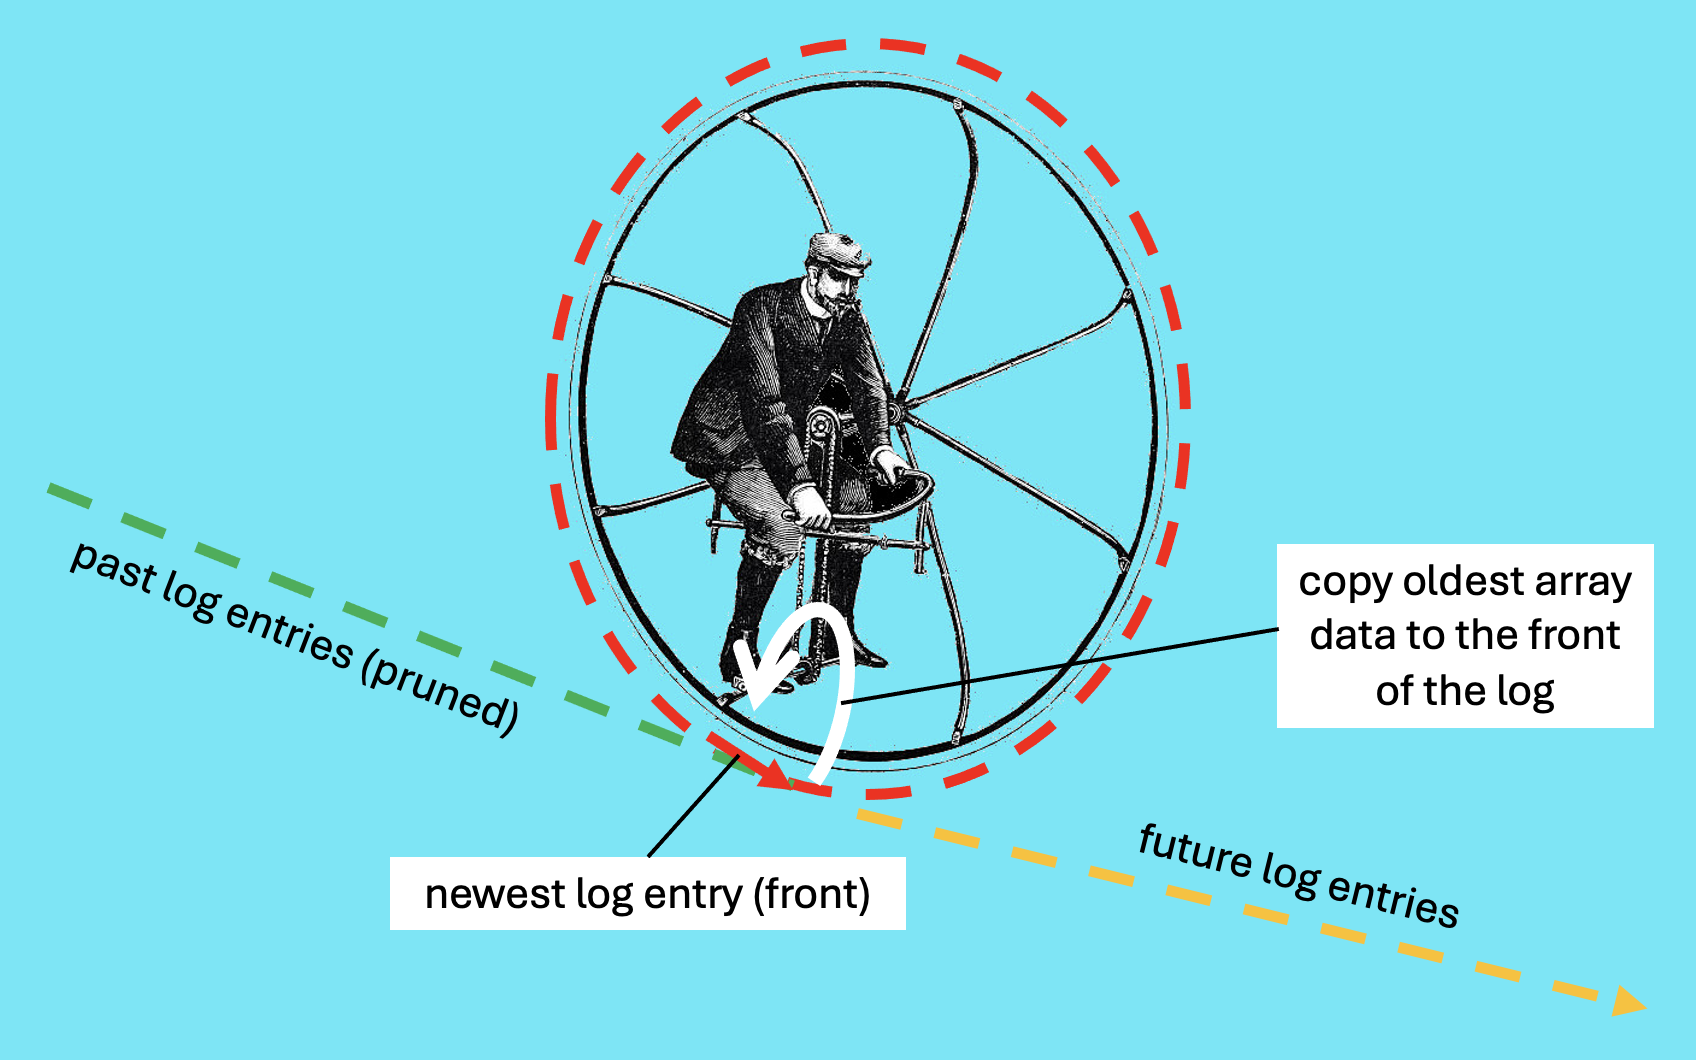
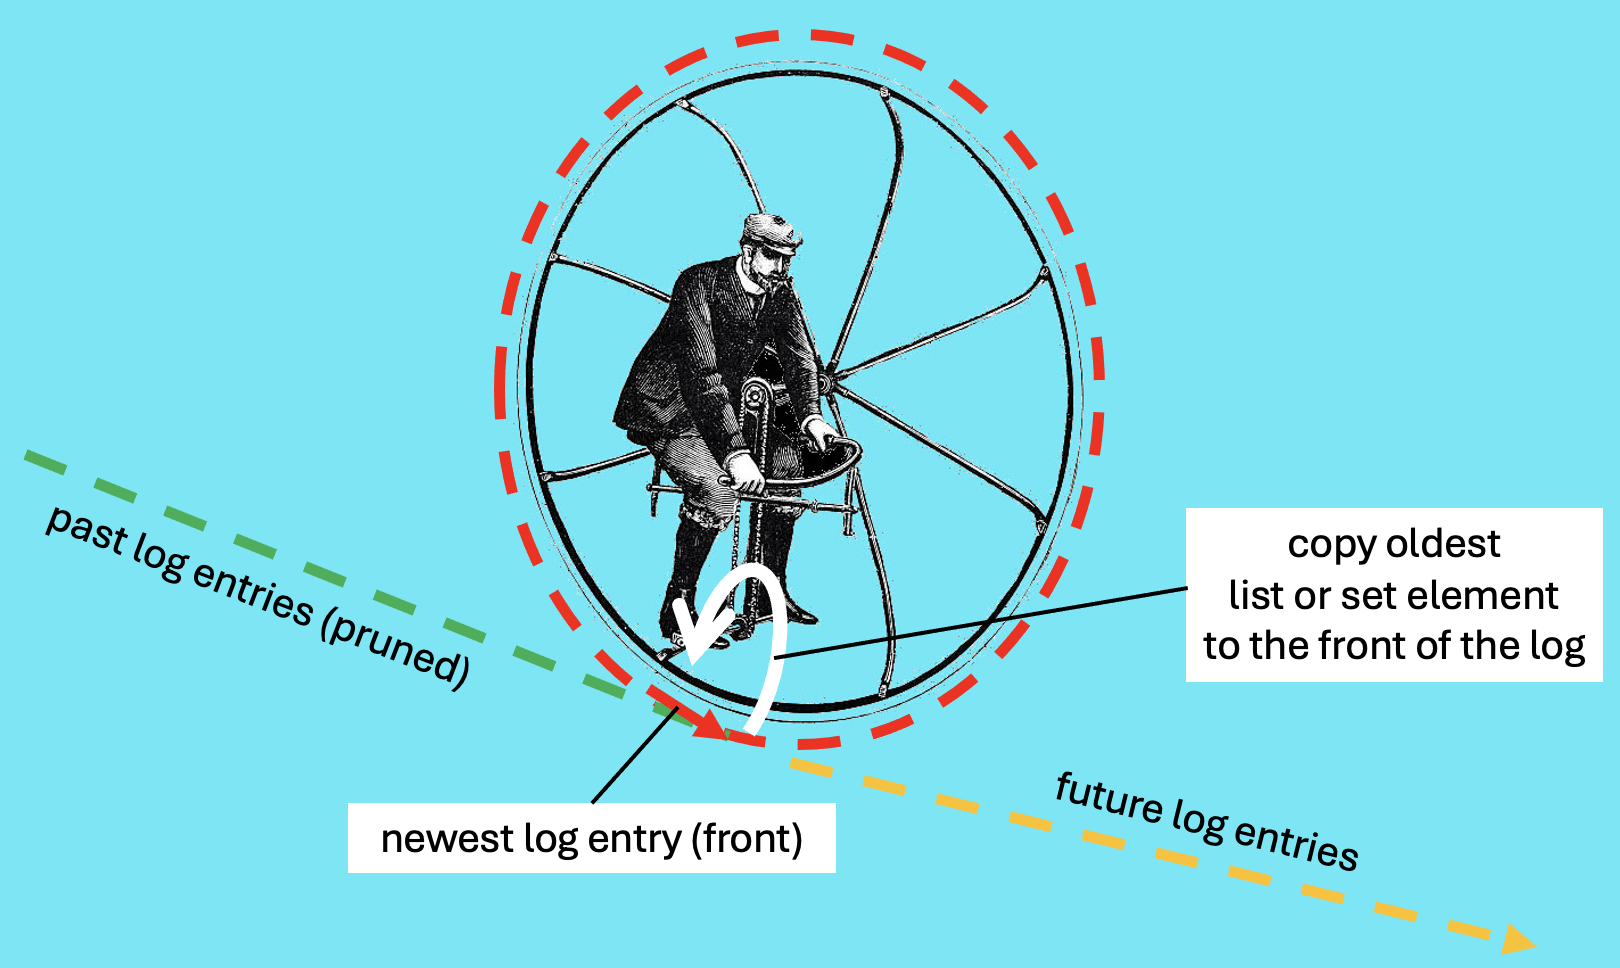
"array" was not accurate, replaced with LIST (and SET)

Changed region(s): [[0.0, 0.031, 1.0, 0.9917]]

diff --git a/README.md b/README.md
@@ -1,4 +1,4 @@
-# Replicated Roll-Over Arrays (ROAR)
+# Roll-Over Lists and Sets (RoloLIST and RoloSET)
 
 How can we publish a mutable data structure via an immutable
 storage stream such that the stream can always be pruned?
@@ -11,21 +11,25 @@ contains more recent data). But because the logs are immutable,
 storing information updates regarding higher-level objects will
 accumulate in an unbounded way.
 
-In this work we show how a specific higher-level data structure, an
-array, can be mapped to a unbounded append-only log yet we keep the
-relevant data in an optimally bounded section of the log. In other
-words, our encoding of the mutable array permits to always prune the
-log. The following pictures depicts our approach:
+In this work we show how specific higher-level data structures, a
+dynamic list and a dynamic set, can be mapped to an unbounded
+append-only log yet we keep the relevant data in an optimally bounded
+section of the log. In other words, our encoding of the mutable list
+and set permits to always prune the log, meaning that we can ignore
+all log entries older that some cutoff point. The following picture
+explains our approach of how we handle the seemingly contradicting
+"immutability" vs "continuously evolving" properties:
 
 ![A log wrapping around a monowheel cycle.](img/monowheel.png)
 
-The current state of an array is stored in the red section of the log.
-Information about the modification of the array is added at the front
-of the log. In order to bound the red section (and declare some
-entries as obsolete, shown in green), it may be necessary to copy old
-data to the front. The trick is to store enough ordering information
-such that old array elements can be sitting at the front of the log,
-if necessary.
+The current state of a list is stored in the red section of the log.
+This includes information about the modification of the list, which is
+added at the front of the log. In order to bound the red section and
+declare _all entries older than the cutoff point_ (shown in green)
+as being obsolete, most of the time it will be necessary to copy old
+data to the front. The trick is to store enough "ordering information"
+with the data such that old list elements can be sitting at the front
+of the log, if necessary.
 
 ## History
 
@@ -34,38 +38,38 @@ of Sebastian Philipp at the University of Basel, 2022 with the
 title _"Memory-Bounded Replication of Mutable Data Structures over
 Immutable Append-Only Logs"_.
 
-Philipp's encoding for an array data structure is based on storing,
+Philipp's encoding for a list data structure is based on storing,
 per log entry, one to three basic operation types: "create", "link"
 and "head". In this way, insertion as well as deletion can be modeled
-as is shown in the example of Figure 3.4:
+as is shown in the example of Figure 3.4, extracted from his report:
 
 ![Copy of Fig 3.4 in Philipp's MSc thesis, 2022, page 20](img/philipp-fig3.4.png)
 
-
-Based on the same approach we extended Philipp's technique by adding
-an aggressive pruning strategy using "roll-overs". Unless the
-modification of the array is about adding a new element (in which case
-we have to grow the "red section"), all other actions involve pruning
-one log entry. In case that pruned entry contained still revelant
-data, we copy its content, as well as updated "rewiring of the links",
-to the front of the log. This must be done in a careful way. For
+Based on the same approach, we extend Philipp's technique by adding an
+aggressive pruning strategy using "roll-overs": Unless the
+modification of the list is about adding or replacing a element (in
+which case we may have to grow the "red section"), all other actions
+must lead to pruning at least one log entry. In case that the
+to-be-pruned entry contains still revelant data, we copy its content
+as well as "link rewirings" to the front of the log. This must be done
+in a careful way as it impacts the main action on the list: For
 example, deleting an element requires updating pointers in the
-adjacent elements with the catch that one of these elements may have
-now moved from the back to the front of the log (i.e., in this case
-the updating has to be updated before writing the relinking
-information to the log).
+adjacent elements, but now with the catch that one of these elements
+may was moved from the back to the front of the log. This means that
+we have to update the updating information before writing the rewiring
+details to the log.
 
-## Log Entry Encoding
+## Log Entry Encoding, Examples
 
 For the current implementation in Python we chose an internal
-double-linked list approach when storing the higher-level data
-structure in memory. For storing changes in the log, it suffices to
-store only one link type, the ```prev``` links, as the other direction
-(```next```) can be computed based on the in-memory data. Differently
-from Philipp, we chose to keep track of a tail pointer instead of
-head, assuming that it is more frequent that elements are appended to
-the array e.g., in list operations. Overall we also have three
-operations:
+double-linked list approach for storing the higher-level list and set data
+structures in memory. Not all of this has to be documented in the log.
+It suffices to store only the ```prev``` links because the other
+direction (```next```) can be computed based on the in-memory
+data. Differently from Philipp, we chose to keep track of a tail
+pointer instead of head, assuming that it is more frequent that
+elements are appended to a list or set. Overall we also have three
+low-level operations to encode the high-level action:
 
 ```
 value "some data"      // corresponds to 'create'
@@ -75,37 +79,48 @@ tail (to)              // define the new tail element value, can be nil
 
 where ```at``` and ```to``` are pointers in form of sequence numbers,
 identifying what log entry is referenced. As with Philipp's encoding,
-the default field values are ```nil```.
+the default field values are ```nil``` when a new node is created with
+a ```value``` operation.
 
-A one-element array would be encoded as:
+The empty list is encoded as
+```
+#1534 (tail nil)
+```
+
+```1534``` in this example is the sequence number at which the relevand
+log engries start; the rest of the line shows what is stored in the log
+at this entry.
+
+
+A one-element list ```['sole element']``` would be encoded in the log as:
 ```
 #4475  (value "sole element"), (tail 4475)
 ```
 
-A two-element array could be encoded as:
+The two-element list ``['first element','2nd element']``` can be encoded as:
 ```
 #6523  (value "first element"), tail(6523)
 #6524  (value "2nd element"), link(6524, 6523), tail(6524)
 ```
 
-If some rollover happened, it can occur that the array order is different
-from the log storage order. Using the same content, we have:
+If a rollover happens, the internal linked list order will be different
+from the log storage order. Using the same content as before, we have:
 
 ```
 #6524  (value "2nd element"),  link(6524, 6523), tail(6524)
 #6525  (value "first element"), link(6524, 6525)
 ```
 
-As one can see, the value for the first array element is re-added to
-the log at the front (implicitely the ```prev``` pointer is
-```nil```).  But because the first element has changed its locations,
-we need to relink the ```prev``` link of the second element (at #6524)
-and let it point to #6525, which also is part of entry #6525. The tail
-information stored in entry #6524 is still valid and does not need
+As one can see, the value for the first list element is re-added to
+the log at the front (note that implicitely the ```prev``` pointer is
+set to ```nil```).  But because the first element has changed its locations,
+we need to relink the ```prev``` link of the second element (stored at #6524)
+and let it point to #6525, which also is part of operations in entry #6525.
+The tail information defined in entry #6524 is still valid and does not need
 changing.
 
 
-## Replay
+## Replay for Reconstruction
 
 The last example shows that the contents of log entries are not
 necessarily valid, if taken out of context: Clearly, #6524 contains
@@ -113,18 +128,32 @@ wrong pointer data. But the log's content is immutable and we have to
 consider all subsequent entries that modify the (in-memory) data
 structure.
 
-Our basic requirement is that the array's content can be fully
-reconstructed by replaying exactly the log's element in the "red
+Our basic requirement is that the list's or set's content can be fully
+reconstructed by replaying exactly the log elements in the "red
 section".
 
-In our implementation we do exactly this by simply executing the
-instructions in the log and updating the in-memory representation of
-the array. The first pass works from tail to head: It creates the
-nodes (for each ```value``` commend), defines the ```prev``` link
-pointers where necessary, and sets the currrent tail value. A second
-pass, now over the in-memory single-linked list, is required to create
-the ```next``` pointer values of our desired in-memory double-linked
-list.
+In our implementation we do this by sequentially executing the
+operations in the log entries and updating the in-memory representation
+of the list or set. In case of a full reconstruction from scratch, a first
+pass reads all log entries after the prune cutoff point, creating
+nodes (for each ```value``` commend), defining the ```prev``` link
+pointers where told to do so, and setting the currrent tail
+value. When completed, a second pass is necessary, now over the
+in-memory single-linked list, in order to creating the ```next```
+pointer values needed in our desired in-memory double-linked list.
+All nodes that were created in this process but which are not part of
+the final double-linked list are not elements of the high-level and can be
+removed.
+
+## Example of a Space-Efficient Wire-Bits Encoding
+
+The RoloLIST and -SET project is a side result of tinySSB where all
+append-only-log entries have a constant length of 120B from which only
+48 Bytes are available for data to be stored. One of the log entry types
+permits to use the full 48B without triggering the use of so called
+side-chains.
+
+... to be completed ...
 
 
 ## A Python Library
